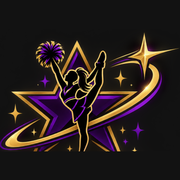
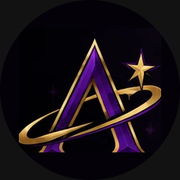
feat: isotipo A con órbita y uniforme 2026 en la galería
- Nuevo isotipo circular (A con órbita y estrella) en navbar, favicon e ícono de Apple
- Sección Uniforme 2026 en galeria.html: 3 figuras con figcaption, AVIF/WebP responsive y grid de 2/3 columnas
- Recorte del frente sin los textos del panel original; crédito de IA en la página y en el README

diff --git a/galeria.html b/galeria.html
@@ -35,7 +35,7 @@
     <nav class="navbar navbar-expand-lg navbar-asteria" aria-label="Navegación principal">
       <div class="container">
         <a class="navbar-brand marca" href="index.html">
-          <img src="img/isotipo-asteria.webp" alt="Isotipo de Asteria Cheer: porrista sobre una estrella dorada" width="44" height="44">
+          <img class="isotipo" src="img/isotipo-asteria.webp" alt="Isotipo de Asteria Cheer: porrista sobre una estrella dorada" width="44" height="44">
           Asteria Cheer
         </a>
         <button class="navbar-toggler" type="button" data-bs-toggle="collapse" data-bs-target="#menu-principal" aria-controls="menu-principal" aria-expanded="false" aria-label="Abrir menú de navegación">
@@ -70,6 +70,41 @@
         <p>Contenido en construcción.</p>
       </div>
     </section>
+
+    <!-- Uniforme oficial de competencia -->
+    <section class="seccion pt-0" aria-labelledby="titulo-uniforme">
+      <div class="container">
+        <h2 id="titulo-uniforme">Uniforme 2026</h2>
+        <p>Negro, morado y dorado: los colores de nuestra marca en cada detalle, de la cabeza a los tenis.</p>
+        <div class="galeria-uniforme">
+          <figure class="figura-galeria">
+            <picture>
+              <source type="image/avif" srcset="img/uniforme-frente-210.avif 210w, img/uniforme-frente-420.avif 420w" sizes="(min-width: 992px) 20rem, 45vw">
+              <source type="image/webp" srcset="img/uniforme-frente-210.webp 210w, img/uniforme-frente-420.webp 420w" sizes="(min-width: 992px) 20rem, 45vw">
+              <img src="img/uniforme-frente-420.webp" alt="Porrista con el uniforme de Asteria Cheer visto de frente: top negro con mangas de malla, logo dorado en el pecho y falda con franjas moradas y doradas" width="420" height="1175" loading="lazy">
+            </picture>
+            <figcaption>Frente: top con mangas de malla y el logo en dorado sobre el pecho.</figcaption>
+          </figure>
+          <figure class="figura-galeria">
+            <picture>
+              <source type="image/avif" srcset="img/uniforme-espalda-160.avif 160w, img/uniforme-espalda-320.avif 320w" sizes="(min-width: 992px) 20rem, 45vw">
+              <source type="image/webp" srcset="img/uniforme-espalda-160.webp 160w, img/uniforme-espalda-320.webp 320w" sizes="(min-width: 992px) 20rem, 45vw">
+              <img src="img/uniforme-espalda-320.webp" alt="Porrista de espaldas con el uniforme de Asteria Cheer: la letra A con órbita y estrella en la espalda y short negro con franjas" width="320" height="1150" loading="lazy">
+            </picture>
+            <figcaption>Espalda: la A de Asteria con su órbita y estrella.</figcaption>
+          </figure>
+          <figure class="figura-galeria">
+            <picture>
+              <source type="image/avif" srcset="img/uniforme-mono-244.avif 244w" sizes="(min-width: 992px) 20rem, 90vw">
+              <img src="img/uniforme-mono-244.webp" alt="Moño de porrismo morado y dorado con brillos y la letra A de Asteria al centro" width="244" height="198" loading="lazy">
+            </picture>
+            <figcaption>Moño: morado con brillos y la A dorada al centro.</figcaption>
+          </figure>
+        </div>
+        <p class="nota-ia"><i class="bi bi-stars" aria-hidden="true"></i> Diseño conceptual del uniforme generado con inteligencia artificial.</p>
+      </div>
+    </section>
+
     <div class="seccion pt-0">
       <div class="container">
         <div class="row g-4">

diff --git a/css/style.css b/css/style.css
@@ -114,6 +114,12 @@ a {
   text-transform: uppercase;
 }
 
+/* Isotipo circular con aro dorado */
+.isotipo {
+  border-radius: 50%;
+  box-shadow: 0 0 0 1px var(--color-dorado);
+}
+
 .navbar-asteria .nav-link {
   color: var(--color-blanco);
   font-family: var(--fuente-titulos);
@@ -218,6 +224,46 @@ a {
   color: var(--color-morado);
 }
 
+/* Galería del uniforme: CSS Grid, 2 columnas en móvil y 3 en escritorio */
+.galeria-uniforme {
+  display: grid;
+  grid-template-columns: repeat(2, minmax(0, 1fr));
+  gap: 1rem;
+  align-items: start;
+}
+
+.figura-galeria {
+  margin: 0;
+  padding: 0.75rem;
+  background-color: var(--color-negro);
+  border-radius: var(--radio);
+  box-shadow: var(--sombra);
+}
+
+.figura-galeria img {
+  display: block;
+  width: 100%;
+  height: auto;
+  border-radius: calc(var(--radio) / 2);
+}
+
+.figura-galeria figcaption {
+  margin-top: 0.75rem;
+  color: var(--color-blanco);
+  font-size: 0.95rem;
+}
+
+/* El moño ocupa todo el ancho en móvil para que no quede diminuto */
+.figura-galeria:last-child {
+  grid-column: 1 / -1;
+}
+
+.nota-ia {
+  margin-top: 1rem;
+  font-size: 0.9rem;
+  color: var(--color-texto);
+}
+
 /* Panel lateral (aside) */
 .panel-lateral {
   background-color: var(--color-morado-suave);
@@ -248,6 +294,14 @@ a {
 
 /* 7. Responsive (mobile first: los estilos de arriba son para móvil) */
 @media (width >= 992px) {
+  .galeria-uniforme {
+    grid-template-columns: repeat(3, minmax(0, 1fr));
+  }
+
+  .figura-galeria:last-child {
+    grid-column: auto;
+  }
+
   .logo-portada {
     max-width: 26rem;
   }

diff --git a/contacto.html b/contacto.html
@@ -35,7 +35,7 @@
     <nav class="navbar navbar-expand-lg navbar-asteria" aria-label="Navegación principal">
       <div class="container">
         <a class="navbar-brand marca" href="index.html">
-          <img src="img/isotipo-asteria.webp" alt="Isotipo de Asteria Cheer: porrista sobre una estrella dorada" width="44" height="44">
+          <img class="isotipo" src="img/isotipo-asteria.webp" alt="Isotipo de Asteria Cheer: porrista sobre una estrella dorada" width="44" height="44">
           Asteria Cheer
         </a>
         <button class="navbar-toggler" type="button" data-bs-toggle="collapse" data-bs-target="#menu-principal" aria-controls="menu-principal" aria-expanded="false" aria-label="Abrir menú de navegación">

diff --git a/index.html b/index.html
@@ -35,7 +35,7 @@
     <nav class="navbar navbar-expand-lg navbar-asteria" aria-label="Navegación principal">
       <div class="container">
         <a class="navbar-brand marca" href="index.html">
-          <img src="img/isotipo-asteria.webp" alt="Isotipo de Asteria Cheer: porrista sobre una estrella dorada" width="44" height="44">
+          <img class="isotipo" src="img/isotipo-asteria.webp" alt="Isotipo de Asteria Cheer: porrista sobre una estrella dorada" width="44" height="44">
           Asteria Cheer
         </a>
         <button class="navbar-toggler" type="button" data-bs-toggle="collapse" data-bs-target="#menu-principal" aria-controls="menu-principal" aria-expanded="false" aria-label="Abrir menú de navegación">

diff --git a/informacion.html b/informacion.html
@@ -35,7 +35,7 @@
     <nav class="navbar navbar-expand-lg navbar-asteria" aria-label="Navegación principal">
       <div class="container">
         <a class="navbar-brand marca" href="index.html">
-          <img src="img/isotipo-asteria.webp" alt="Isotipo de Asteria Cheer: porrista sobre una estrella dorada" width="44" height="44">
+          <img class="isotipo" src="img/isotipo-asteria.webp" alt="Isotipo de Asteria Cheer: porrista sobre una estrella dorada" width="44" height="44">
           Asteria Cheer
         </a>
         <button class="navbar-toggler" type="button" data-bs-toggle="collapse" data-bs-target="#menu-principal" aria-controls="menu-principal" aria-expanded="false" aria-label="Abrir menú de navegación">

diff --git a/tabla.html b/tabla.html
@@ -35,7 +35,7 @@
     <nav class="navbar navbar-expand-lg navbar-asteria" aria-label="Navegación principal">
       <div class="container">
         <a class="navbar-brand marca" href="index.html">
-          <img src="img/isotipo-asteria.webp" alt="Isotipo de Asteria Cheer: porrista sobre una estrella dorada" width="44" height="44">
+          <img class="isotipo" src="img/isotipo-asteria.webp" alt="Isotipo de Asteria Cheer: porrista sobre una estrella dorada" width="44" height="44">
           Asteria Cheer
         </a>
         <button class="navbar-toggler" type="button" data-bs-toggle="collapse" data-bs-target="#menu-principal" aria-controls="menu-principal" aria-expanded="false" aria-label="Abrir menú de navegación">

diff --git a/README.md b/README.md
@@ -77,5 +77,6 @@ Abrir el sitio con la extensión Live Server de VS Code (los módulos de JavaScr
 ## Créditos de imágenes
 
 - Logo e isotipo: generados con IA para este proyecto.
+- Uniforme 2026 (frente, espalda y moño en la galería): diseño conceptual generado con IA.
 
 _Las demás imágenes se listarán aquí con su fuente (Unsplash, Pexels o generadas con IA)._
